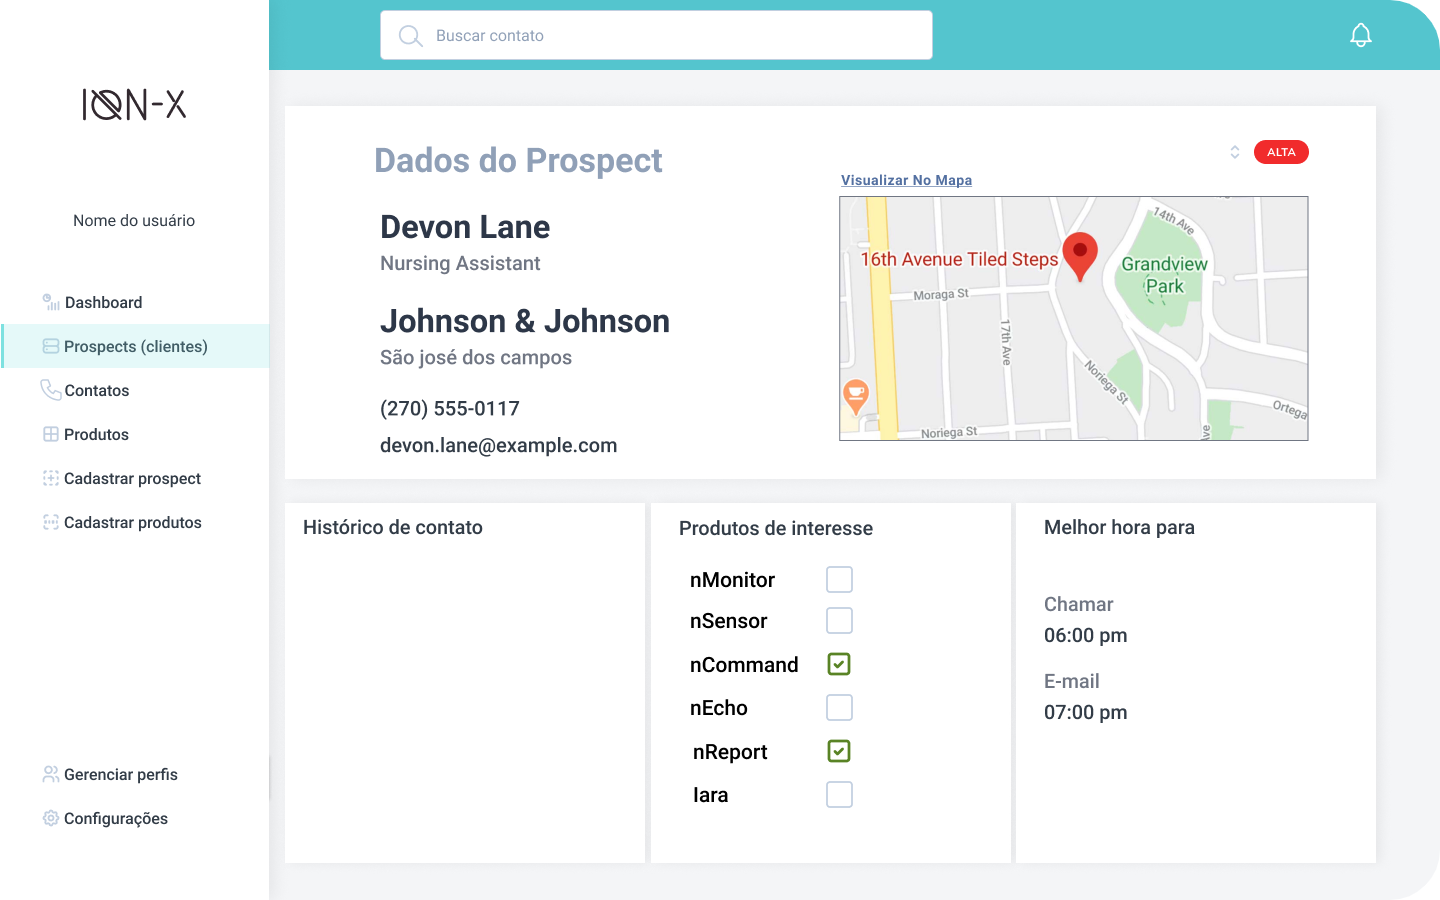
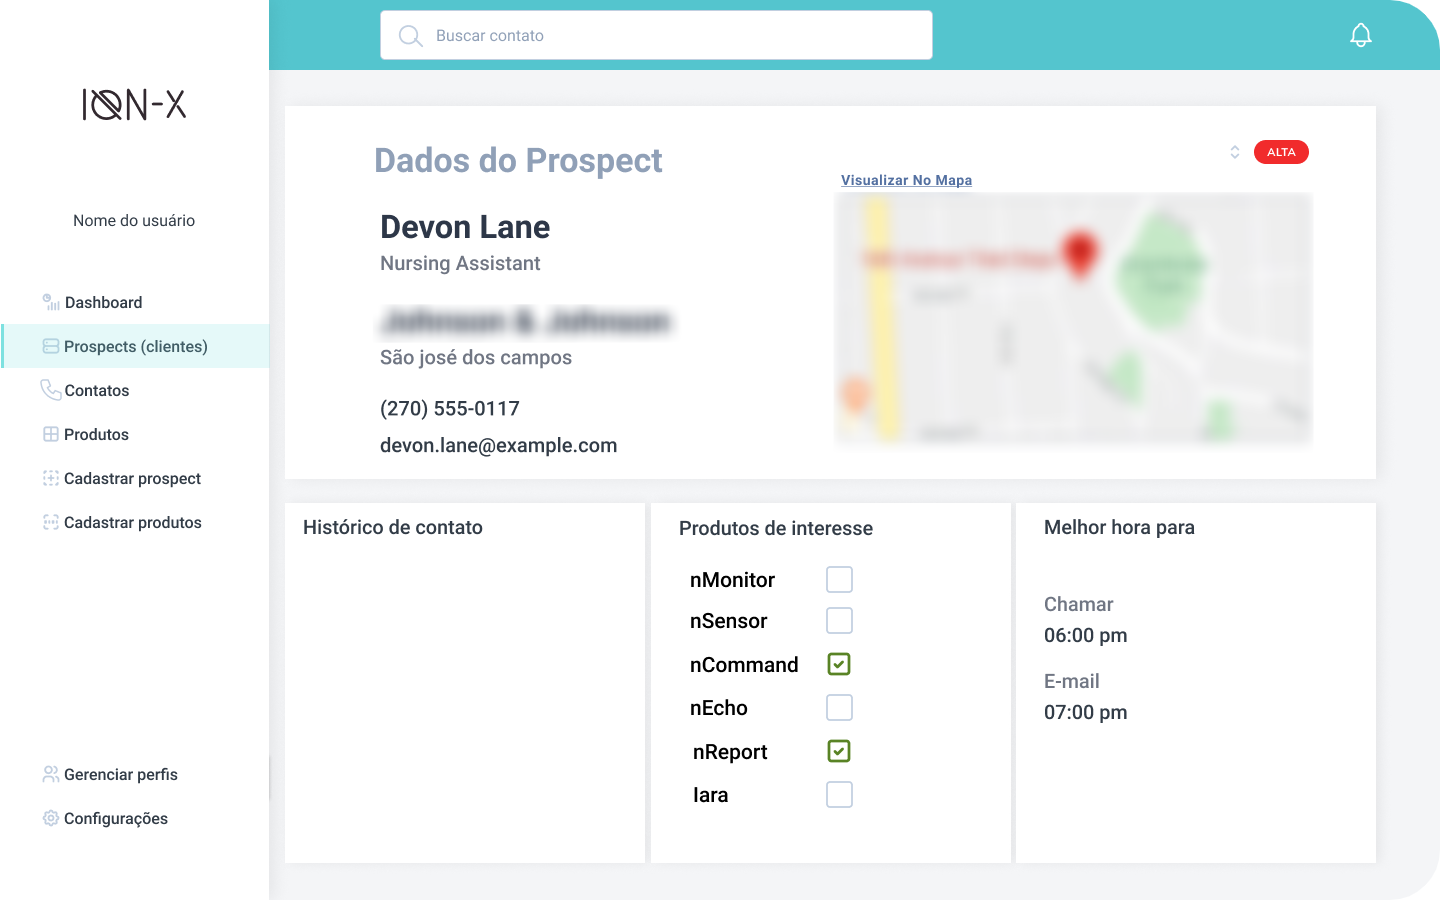
adding censored images
- the names of the company that appear in certain images were requested to be censored, avoiding copyright problem.

diff --git a/APIs/FatecAPI-03/README.md b/APIs/FatecAPI-03/README.md
@@ -50,7 +50,7 @@
 
 O Ion-X foi desenvolvido durante o **segundo semestre** de **2021**, no meu terceiro semestre na Fatec. Tive a oportunidade de aprender e operar as seguintes tecnologias:
 
-  1.  **CSS** &#8594; Sei fazer com autonomia;
+  1.  **CSS** &#8594; Sei fazer com auxílio;
   2.  **HTML** &#8594; Sei fazer com autonomia;
   3.  **Java** &#8594; Sei fazer com auxílio;
   4.  **PostgreSQL** &#8594; Sei fazer com autonomia;

diff --git a/README.md b/README.md
@@ -62,8 +62,8 @@ Com o passar dos semestres, desenvolvi as habilidades nas subsequentes tecnologi
     </tr>
     <tr>
         <td align="center">CSS</td>
-        <td></td>
         <td align="center">:heavy_check_mark:</td>
+        <td align="center"></td>
         <td></td>
     </tr>
     <tr>
